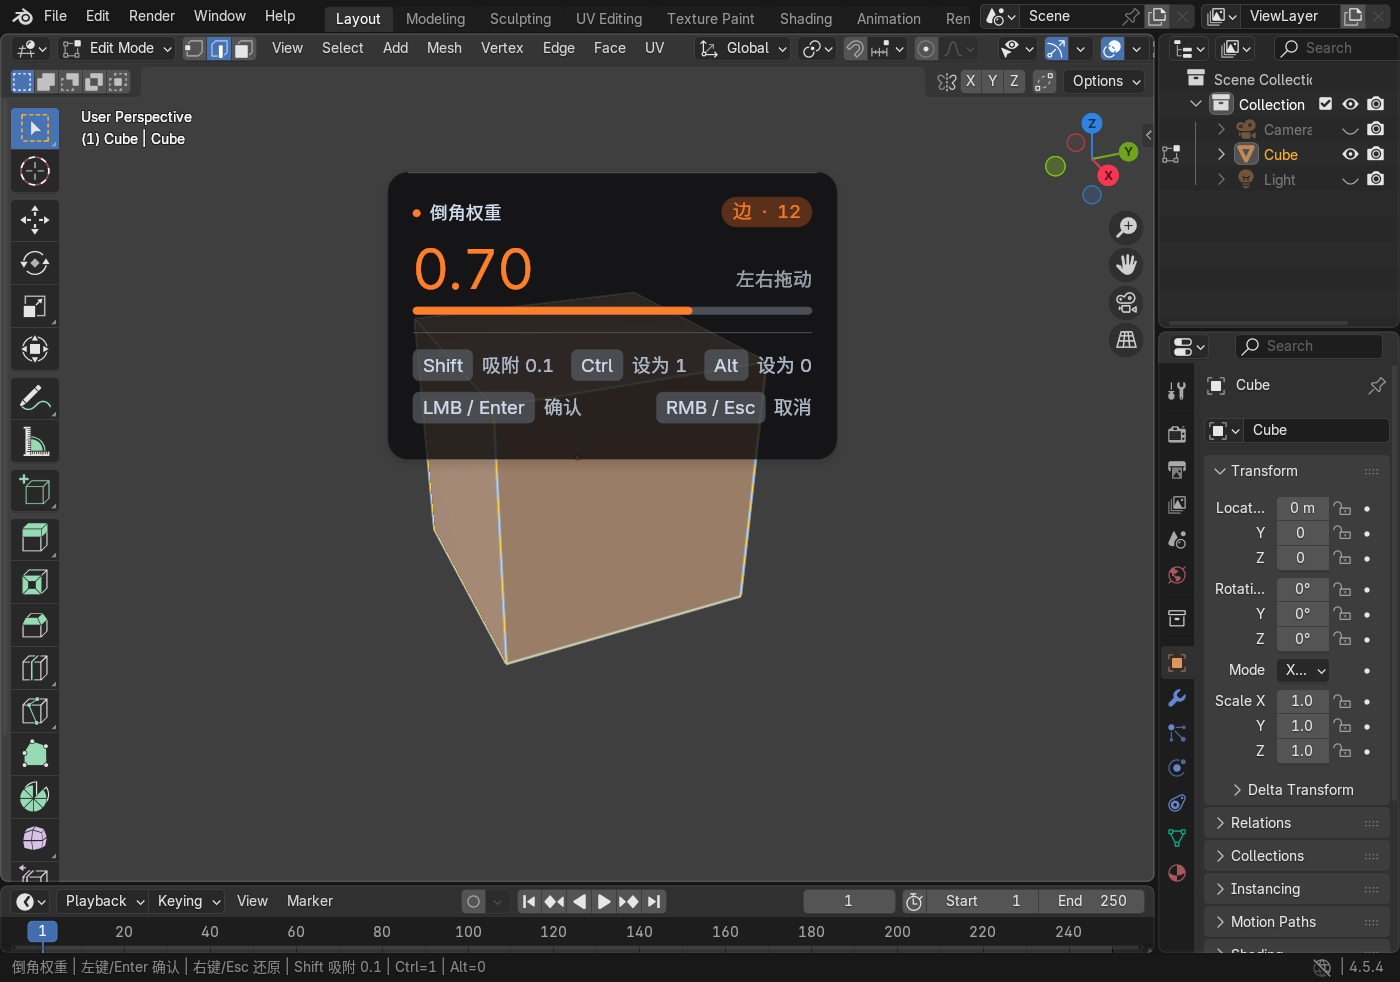
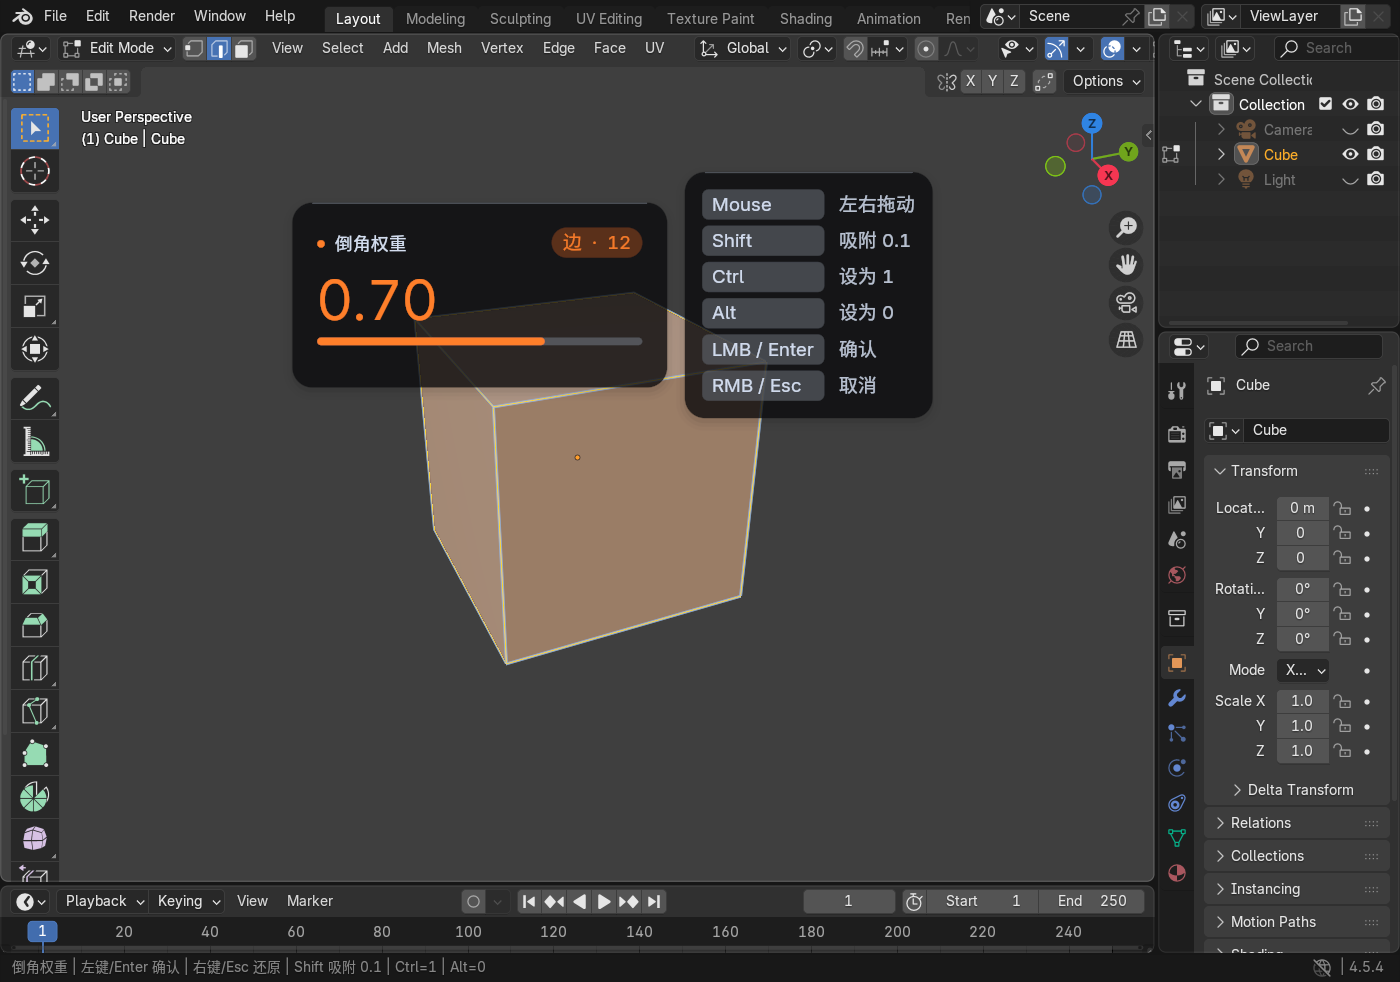
Move shortcut hints to a separate right-hand list in 1.1.1

Changed region(s): [[0.1843, 0.1527, 0.6757, 0.4888]]

diff --git a/hud.py b/hud.py
@@ -9,9 +9,13 @@ from gpu_extras.batch import batch_for_shader
 
 from .preferences import get_preferences
 
-HINT_ROWS = (
-    (("Shift", "吸附 0.1"), ("Ctrl", "设为 1"), ("Alt", "设为 0")),
-    (("LMB / Enter", "确认"), ("RMB / Esc", "取消")),
+HINTS = (
+    ("Mouse", "左右拖动"),
+    ("Shift", "吸附 0.1"),
+    ("Ctrl", "设为 1"),
+    ("Alt", "设为 0"),
+    ("LMB / Enter", "确认"),
+    ("RMB / Esc", "取消"),
 )
 
 
@@ -67,10 +71,6 @@ def text_at(text, x, y, size, color):
     blf.draw(0, text)
 
 
-def hint_width(key, label, size, scale):
-    return text_width(key, size) + text_width(label, size) + 23 * scale
-
-
 def card_layout(operator, prefs, scale):
     size = prefs.hud_font_size * scale
     small = max(12.0, min(15.0, prefs.hud_font_size * 0.34)) * scale
@@ -79,33 +79,60 @@ def card_layout(operator, prefs, scale):
     badge = f"{domain}  ·  {operator._edit.count}"
     pad = 20 * scale
     widths = [text_width(operator.display_name, title_size) + text_width(badge, small) + 62 * scale,
-              text_width("1.00", size) + text_width("左右拖动", small) + 35 * scale]
-    if prefs.hud_show_help:
-        widths.extend(sum(hint_width(key, label, small, scale) for key, label in row)
-                      + (len(row) - 1) * 14 * scale for row in HINT_ROWS)
+              text_width("1.00", size)]
     width = max(300 * scale, max(widths) + 2 * pad)
     header = 24 * scale
     value_row = size + 20 * scale
     bar_row = 20 * scale if prefs.hud_show_bar else 0
-    footer = 82 * scale if prefs.hud_show_help else 0
-    return {"width": width, "height": 2 * pad + header + value_row + bar_row + footer,
+    return {"width": width, "height": 2 * pad + header + value_row + bar_row,
             "scale": scale, "size": size, "small": small, "title_size": title_size,
             "pad": pad, "header": header, "value_row": value_row, "badge": badge}
 
 
-def draw_hints(shader, x, top, width, size, scale, color):
-    for row in HINT_ROWS:
-        total = sum(hint_width(key, label, size, scale) for key, label in row)
-        gap = (width - total) / max(1, len(row) - 1)
-        cursor = x
-        for key, label in row:
-            key_width = text_width(key, size) + 16 * scale
-            rounded_rect(shader, cursor, top - 25 * scale, key_width, 25 * scale, 5 * scale,
-                         tint(color, 0.075))
-            text_at(key, cursor + 8 * scale, top - 18 * scale, size, tint(color, 0.95))
-            text_at(label, cursor + key_width + 7 * scale, top - 18 * scale, size, tint(color, 0.66))
-            cursor += hint_width(key, label, size, scale) + gap
-        top -= 34 * scale
+def overlay_layout(operator, prefs, scale):
+    """Measure both independent panels so the right-hand list stays on screen."""
+    card = card_layout(operator, prefs, scale)
+    help_layout = None
+    gap = 14 * scale if prefs.hud_show_help else 0
+    if prefs.hud_show_help:
+        size = card["small"]
+        pad, row_height, row_gap = 14 * scale, 24 * scale, 5 * scale
+        key_width = max(text_width(key, size) for key, _ in HINTS) + 16 * scale
+        label_width = max(text_width(label, size) for _, label in HINTS)
+        help_layout = {"width": 2 * pad + key_width + 12 * scale + label_width,
+                       "height": 2 * pad + len(HINTS) * row_height + (len(HINTS) - 1) * row_gap,
+                       "pad": pad, "key_width": key_width, "row_height": row_height, "row_gap": row_gap}
+    return {"card": card, "help": help_layout, "gap": gap, "scale": scale,
+            "width": card["width"] + gap + (help_layout["width"] if help_layout else 0),
+            "height": max(card["height"], help_layout["height"] if help_layout else 0)}
+
+
+def draw_panel(shader, x, y, width, height, prefs, scale, color):
+    if not prefs.hud_background:
+        return
+    radius = prefs.hud_corner_radius * scale
+    background = tuple(prefs.hud_background_color)
+    if prefs.hud_panel_shadow:
+        for spread, opacity in ((7, 0.045), (4, 0.07), (1, 0.12)):
+            edge = spread * scale
+            rounded_rect(shader, x - edge, y - edge - 3 * scale,
+                         width + 2 * edge, height + 2 * edge, radius + edge,
+                         (0.0, 0.0, 0.0, opacity * background[3]))
+    rounded_rect(shader, x, y, width, height, radius, background)
+    rounded_rect(shader, x + radius, y + height - scale, max(0, width - 2 * radius),
+                 scale, scale / 2, tint(color, 0.1 * background[3]))
+
+
+def draw_hints(shader, x, y, layout, size, scale, color):
+    left = x + layout["pad"]
+    top = y + layout["height"] - layout["pad"]
+    key_width = layout["key_width"]
+    for key, label in HINTS:
+        rounded_rect(shader, left, top - layout["row_height"], key_width,
+                     layout["row_height"], 5 * scale, tint(color, 0.075))
+        text_at(key, left + 8 * scale, top - 17 * scale, size, tint(color, 0.95))
+        text_at(label, left + key_width + 12 * scale, top - 17 * scale, size, tint(color, 0.72))
+        top -= layout["row_height"] + layout["row_gap"]
 
 
 def viewport_bounds(area, region):
@@ -142,15 +169,16 @@ def draw(operator):
     region = context.region
     view_x, view_y, view_width, view_height = viewport_bounds(context.area, region)
     ui_scale = context.preferences.system.ui_scale
-    layout = card_layout(operator, prefs, ui_scale)
+    group = overlay_layout(operator, prefs, ui_scale)
     margin = min(8 * ui_scale, view_width / 8, view_height / 8)
-    fit = min(1.0, (view_width - 2 * margin) / layout["width"],
-              (view_height - 2 * margin) / layout["height"])
+    fit = min(1.0, (view_width - 2 * margin) / group["width"],
+              (view_height - 2 * margin) / group["height"])
     if fit <= 0:
         return
     if fit < 1:
-        layout = card_layout(operator, prefs, ui_scale * fit)
-    width, height, scale = layout["width"], layout["height"], layout["scale"]
+        group = overlay_layout(operator, prefs, ui_scale * fit)
+    layout = group["card"]
+    width, height, scale = group["width"], group["height"], group["scale"]
     pad, small, size = layout["pad"], layout["small"], layout["size"]
     offset_x, offset_y = prefs.hud_offset_x * ui_scale, prefs.hud_offset_y * ui_scale
     if prefs.hud_anchor == "CURSOR":
@@ -160,24 +188,19 @@ def draw(operator):
         y = view_y + view_height - height - offset_y if prefs.hud_anchor == "TOP" else view_y + offset_y
     x = max(view_x + margin, min(x, view_x + view_width - width - margin))
     y = max(view_y + margin, min(y, view_y + view_height - height - margin))
-    radius = prefs.hud_corner_radius * scale
+    help_x = x + layout["width"] + group["gap"]
+    help_y = y + (height - group["help"]["height"]) / 2 if group["help"] else y
+    y += (height - layout["height"]) / 2
+    width, height = layout["width"], layout["height"]
     color, accent = tuple(prefs.hud_text_color), tuple(prefs.hud_value_color)
     blend = gpu.state.blend_get()
     try:
         gpu.state.blend_set("ALPHA")
         shader = gpu.shader.from_builtin("SMOOTH_COLOR")
-        if prefs.hud_background:
-            background = tuple(prefs.hud_background_color)
-            if prefs.hud_panel_shadow:
-                for spread, opacity in ((7, 0.045), (4, 0.07), (1, 0.12)):
-                    edge = spread * scale
-                    rounded_rect(shader, x - edge, y - edge - 3 * scale,
-                                 width + 2 * edge, height + 2 * edge, radius + edge,
-                                 (0.0, 0.0, 0.0, opacity * background[3]))
-            rounded_rect(shader, x, y, width, height, radius, background)
-            # Subtle top highlight without a second translucent card compositing over the first.
-            rounded_rect(shader, x + radius, y + height - scale, max(0, width - 2 * radius),
-                         scale, scale / 2, tint(color, 0.1 * background[3]))
+        draw_panel(shader, x, y, width, height, prefs, scale, color)
+        if group["help"]:
+            draw_panel(shader, help_x, help_y, group["help"]["width"], group["help"]["height"],
+                       prefs, scale, color)
         if prefs.hud_shadow:
             blf.enable(0, blf.SHADOW)
             blf.shadow(0, 3, 0.0, 0.0, 0.0, 0.6)
@@ -197,18 +220,14 @@ def draw(operator):
         top -= layout["header"]
         baseline = top - size - 6 * scale
         text_at(f"{operator.value:.2f}", left, baseline, size, accent)
-        drag = "左右拖动"
-        text_at(drag, right - text_width(drag, small), baseline + 3 * scale, small, tint(color, 0.5))
         top -= layout["value_row"]
         if prefs.hud_show_bar:
             bar_y, bar_height = top - 6 * scale, 6 * scale
             rounded_rect(shader, left, bar_y, right - left, bar_height, bar_height / 2, tint(color, 0.1))
             rounded_rect(shader, left, bar_y, (right - left) * operator.value,
                          bar_height, bar_height / 2, accent)
-            top -= 20 * scale
-        if prefs.hud_show_help:
-            rounded_rect(shader, left, top - scale, right - left, scale, 0, tint(color, 0.075))
-            draw_hints(shader, left, top - 14 * scale, right - left, small, scale, color)
+        if group["help"]:
+            draw_hints(shader, help_x, help_y, group["help"], small, scale, color)
     finally:
         blf.disable(0, blf.SHADOW)
         gpu.state.blend_set(blend)

diff --git a/preferences.py b/preferences.py
@@ -38,7 +38,7 @@ class QCW_Preferences(bpy.types.AddonPreferences):
     hud_background_color: FloatVectorProperty(name="背景颜色与透明度", subtype="COLOR", size=4,
                                              default=(0.022, 0.029, 0.043, 0.94), min=0.0, max=1.0)
     hud_shadow: BoolProperty(name="文字阴影", default=False)
-    hud_show_help: BoolProperty(name="显示操作提示", default=True)
+    hud_show_help: BoolProperty(name="显示右侧按键列表", description="工具操作期间，在数值 HUD 右侧持续显示独立的悬浮操作列表", default=True)
     hud_show_bar: BoolProperty(name="显示数值进度条", default=True)
 
     def draw(self, context):

diff --git a/tests/blender_ui_smoke.py b/tests/blender_ui_smoke.py
@@ -219,7 +219,7 @@ def finish():
         "success": True, "blender": bpy.app.version_string,
         "hud_draws": draw_count, "preference_draws": pref_draw_count,
         "checks": ["Shift+E vertex crease", "Ctrl+Shift+E edge bevel weight", "cancel restore",
-                   "confirm and undo", "custom shortcut", "HUD styles", "preferences layout",
+                   "confirm and undo", "custom shortcut", "separate right-hand hints", "preferences layout",
                    "large font and corner radius", "square corners", "zero and full progress"],
     }, ensure_ascii=False, indent=2), encoding="utf-8")
     bpy.ops.wm.quit_blender()

diff --git a/__init__.py b/__init__.py
@@ -4,7 +4,7 @@
 bl_info = {
     "name": "Quick Crease Weight",
     "author": "WXZ",
-    "version": (1, 1, 0),
+    "version": (1, 1, 1),
     "blender": (4, 2, 0),
     "location": "3D View > Mesh Edit Mode",
     "description": "根据点/边选择模式快速调整折痕与倒角权重，支持自定义快捷键与 HUD",

diff --git a/README.zh-CN.md b/README.zh-CN.md
@@ -7,15 +7,15 @@
 在 Blender 网格编辑模式中，根据点 / 边选择模式自动选择属性，拖动鼠标即可调整。
 
 [![Blender](https://img.shields.io/badge/Blender-4.2%2B-E87D0D?style=flat-square&logo=blender&logoColor=white)](#兼容性)
-[![Version](https://img.shields.io/badge/version-1.1.0-38BDF8?style=flat-square)](CHANGELOG.md)
+[![Version](https://img.shields.io/badge/version-1.1.1-38BDF8?style=flat-square)](CHANGELOG.md)
 [![License](https://img.shields.io/badge/license-GPL--2.0--or--later-7C83FD?style=flat-square)](LICENSE)
 [![Dependencies](https://img.shields.io/badge/dependencies-none-34D399?style=flat-square)](#功能一览)
 
-**[下载插件 ZIP](https://github.com/xz-blender/quick_crease_weight/raw/refs/heads/main/downloads/quick_crease_weight-1.1.0.zip)** · [快速开始](#快速开始) · [自定义设置](#自定义设置) · [English](README.md)
+**[下载插件 ZIP](https://github.com/xz-blender/quick_crease_weight/raw/refs/heads/main/downloads/quick_crease_weight-1.1.1.zip)** · [快速开始](#快速开始) · [自定义设置](#自定义设置) · [English](README.md)
 
 <img src="docs/images/crease-hud.png" alt="Blender 顶点编辑模式中，蓝色 HUD 显示折痕值 0.65" width="100%">
 
-<sub>实际 Blender 4.5.4 视口截图：顶点折痕、实时数值和操作提示。</sub>
+<sub>实际 Blender 4.5.4 视口截图：左侧数值 HUD，右侧独立悬浮按键列表。</sub>
 
 </div>
 
@@ -25,7 +25,7 @@
 | --- | --- |
 | **自动识别点 / 边** | 点模式调整顶点属性，边和面模式调整边属性，无需切换工具。 |
 | **折痕 + 倒角权重** | 默认 <kbd>Shift</kbd> + <kbd>E</kbd> 和 <kbd>Ctrl</kbd> + <kbd>Shift</kbd> + <kbd>E</kbd>。 |
-| **实时 HUD** | 圆角卡片、醒目数值、选择标签、胶囊进度条和分组按键提示。 |
+| **实时 HUD** | 圆角数值卡片、选择标签与胶囊进度条；按键提示独立放在右侧，操作期间持续显示。 |
 | **快捷键与外观可定制** | 原生键位编辑器，配合位置、字号、颜色和背景透明度设置。 |
 | **可取消、可撤销** | 取消恢复每个元素的原值；确认后使用 Blender 撤销。 |
 | **多物体编辑** | 同时调整多个编辑中的网格，共享网格只处理一次。 |
@@ -67,7 +67,9 @@
 | 操作手感 | 鼠标灵敏度 |
 | HUD 布局 | 底部居中、顶部居中、跟随鼠标，水平 / 垂直偏移 |
 | HUD 外观 | 字号、文字颜色、数值颜色、背景颜色与透明度、圆角半径、卡片阴影、文字阴影 |
-| 信息显示 | HUD 总开关、操作提示、数值进度条 |
+| 信息显示 | HUD 总开关、右侧按键列表、数值进度条 |
+
+鼠标和键盘操作提示全部放在 HUD 右侧的独立悬浮列表中，不占用数值卡片。两块面板共用外观设置、一起定位，并在窄视口中自动缩放。可在偏好设置中关闭 **显示右侧按键列表**。
 
 <p align="center">
   <img src="docs/images/bevel-hud.png" alt="橙色大字号 HUD 位于视口顶部，显示边倒角权重 0.70" width="100%">
@@ -136,7 +138,7 @@ $blender = 'C:\path\to\blender.exe'
 & $blender --factory-startup --command extension validate
 New-Item -ItemType Directory -Path dist -Force | Out-Null
 & $blender --factory-startup --command extension build --output-dir dist
-& $blender --factory-startup --command extension validate dist/quick_crease_weight-1.1.0.zip
+& $blender --factory-startup --command extension validate dist/quick_crease_weight-1.1.1.zip
 ```
 
 界面测试：

diff --git a/README.md b/README.md
@@ -7,10 +7,10 @@
 Automatically target vertices or edges in Mesh Edit Mode, then drag to adjust.
 
 [![Blender](https://img.shields.io/badge/Blender-4.2%2B-E87D0D?style=flat-square&logo=blender&logoColor=white)](#compatibility)
-[![Version](https://img.shields.io/badge/version-1.1.0-38BDF8?style=flat-square)](CHANGELOG.md)
+[![Version](https://img.shields.io/badge/version-1.1.1-38BDF8?style=flat-square)](CHANGELOG.md)
 [![License](https://img.shields.io/badge/license-GPL--2.0--or--later-7C83FD?style=flat-square)](LICENSE)
 
-**[Download the add-on ZIP](https://github.com/xz-blender/quick_crease_weight/raw/refs/heads/main/downloads/quick_crease_weight-1.1.0.zip)** · [Quick start](#quick-start) · [Customization](#customization) · [简体中文](README.zh-CN.md)
+**[Download the add-on ZIP](https://github.com/xz-blender/quick_crease_weight/raw/refs/heads/main/downloads/quick_crease_weight-1.1.1.zip)** · [Quick start](#quick-start) · [Customization](#customization) · [简体中文](README.zh-CN.md)
 
 <img src="docs/images/crease-hud.png" alt="Vertex Edit Mode with crease value 0.65" width="100%">
 
@@ -22,7 +22,7 @@ Automatically target vertices or edges in Mesh Edit Mode, then drag to adjust.
 
 - **Selection-aware:** vertex mode targets vertex attributes; edge and face modes target edges.
 - **Two tools:** Shift + E for creases, Ctrl + Shift + E for bevel weights.
-- **Live HUD:** a rounded card with a prominent value, selection badge, pill-shaped progress bar, and grouped key hints.
+- **Live HUD:** a rounded value card with a selection badge and pill-shaped progress bar; a separate floating shortcut list stays visible on its right throughout adjustment.
 - **Customizable:** native Blender shortcut editing, mouse sensitivity, and HUD styling.
 - **Reversible:** cancel restores individual values; confirmed operations support Blender undo.
 - **Multi-object editing:** shared mesh data is processed once.
@@ -60,9 +60,11 @@ Open **Preferences → Add-ons → Quick Crease Weight**.
 | Interaction | Mouse sensitivity |
 | HUD layout | Bottom, top, or cursor; horizontal and vertical offsets |
 | HUD appearance | Font size, text/value colors, background opacity, corner radius, card shadow, text shadow |
-| Visibility | HUD, help text, progress bar |
+| Visibility | HUD, right-hand shortcut list, progress bar |
 
-<img src="docs/images/bevel-hud.png" alt="Custom orange HUD at the top of the viewport showing edge bevel weight 0.70" width="100%">
+Mouse and keyboard hints live entirely in the right-hand list. Both panels share the selected styling and move together; the layout scales down to fit narrow viewports. Disable **显示右侧按键列表** in preferences to hide the list.
+
+<img src="docs/images/bevel-hud.png" alt="Orange bevel-weight HUD showing 0.70 with a separate shortcut list on its right" width="100%">
 
 <details>
 <summary><strong>View the preferences interface</strong></summary>
@@ -111,7 +113,7 @@ $blender = 'C:\path\to\blender.exe'
 & $blender --factory-startup --command extension validate
 New-Item -ItemType Directory -Path dist -Force | Out-Null
 & $blender --factory-startup --command extension build --output-dir dist
-& $blender --factory-startup --command extension validate dist/quick_crease_weight-1.1.0.zip
+& $blender --factory-startup --command extension validate dist/quick_crease_weight-1.1.1.zip
 ```
 
 For real window checks:

diff --git a/CHANGELOG.md b/CHANGELOG.md
@@ -1,5 +1,11 @@
 # Changelog
 
+## 1.1.1 — 2026-10-02
+
+- Moved mouse and keyboard hints into a separate vertical floating list to the right of the value HUD.
+- Kept the list visible throughout adjustment, with an independent visibility toggle in preferences.
+- Fit both panels together within the viewport, including cursor placement and large font settings.
+
 ## 1.1.0 — 2026-10-02
 
 - Redesigned the HUD with anti-aliased rounded cards, selection badges, a pill progress bar, and grouped key hints.
